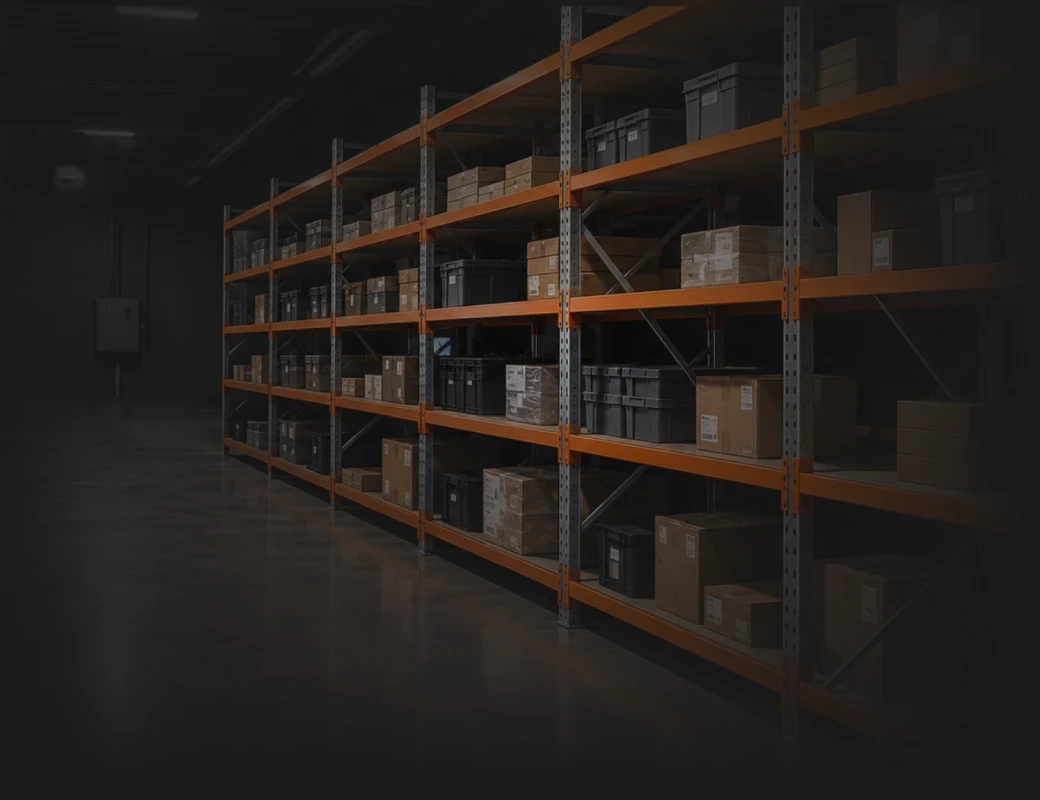
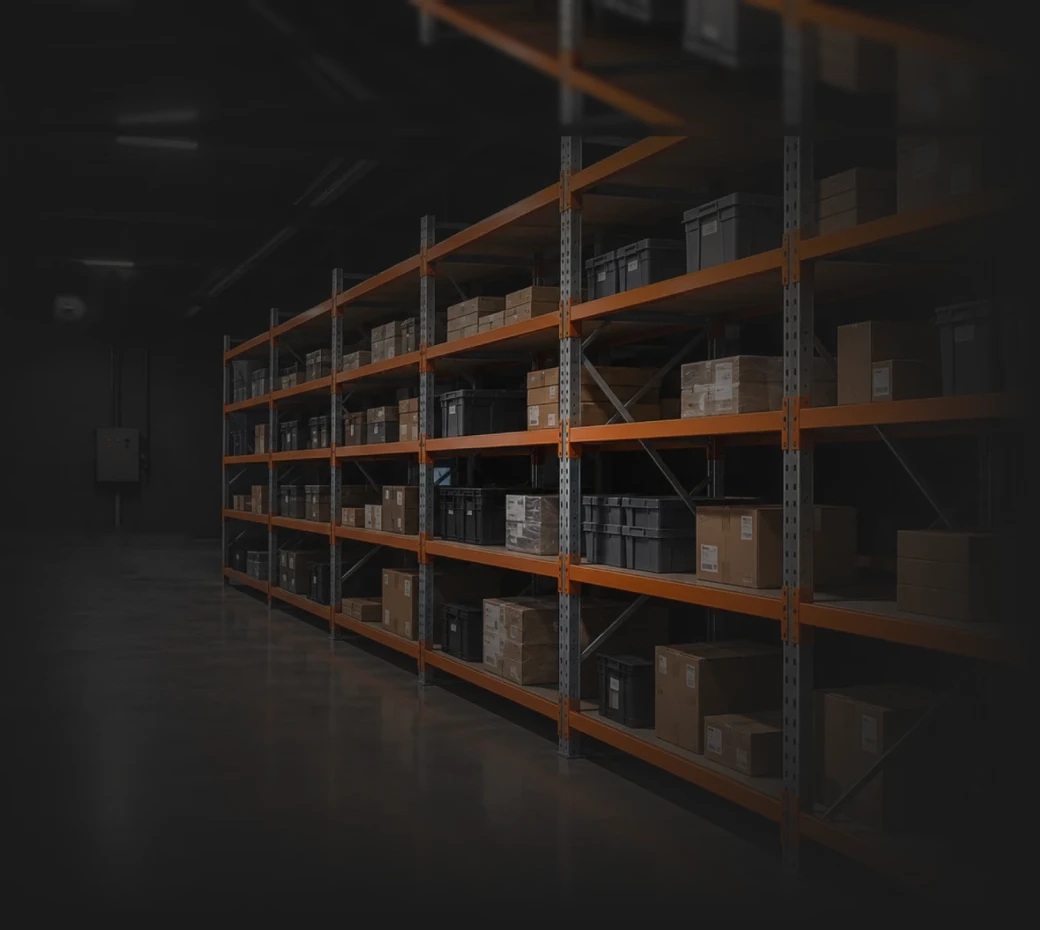
Шапка полупрозрачнее, фон hero продолжается под шапкой

diff --git a/srednegruzovye-stellazhi.html b/srednegruzovye-stellazhi.html
@@ -9,10 +9,10 @@
   <link rel="preconnect" href="https://fonts.googleapis.com">
   <link rel="preconnect" href="https://fonts.gstatic.com" crossorigin>
   <link href="https://fonts.googleapis.com/css2?family=Golos+Text:wght@400;500;600;700&display=swap" rel="stylesheet">
-  <link rel="stylesheet" href="css/style.css?v=61">
+  <link rel="stylesheet" href="css/style.css?v=62">
   <link rel="stylesheet" href="css/mining.css?v=3">
   <link rel="stylesheet" href="css/catalog.css?v=18">
-  <link rel="stylesheet" href="css/racks.css?v=23">
+  <link rel="stylesheet" href="css/racks.css?v=24">
 </head>
 <body class="page-racks">
 
@@ -117,7 +117,7 @@
 
 <main>
 
-  <section class="m-hero rk-hero" style="--rk-hero:url(../img/racks/s-hero.webp?v=2);--rk-w:743px;--rk-h:572px;--rk-ml:-285px;--rk-top:93px">
+  <section class="m-hero rk-hero" style="--rk-hero:url(../img/racks/s-hero.webp?v=3);--rk-w:743px;--rk-h:665px;--rk-ml:-285px;--rk-top:0px">
     <div class="container m-hero__inner">
       <div class="m-hero__main">
         <p class="pill"><img class="pill__icon" src="img/icons/logo-mark.svg" width="16" height="18" alt="">Официальный дилер стеллажных систем</p>

diff --git a/mezoninnye-stellazhi.html b/mezoninnye-stellazhi.html
@@ -9,10 +9,10 @@
   <link rel="preconnect" href="https://fonts.googleapis.com">
   <link rel="preconnect" href="https://fonts.gstatic.com" crossorigin>
   <link href="https://fonts.googleapis.com/css2?family=Golos+Text:wght@400;500;600;700&display=swap" rel="stylesheet">
-  <link rel="stylesheet" href="css/style.css?v=61">
+  <link rel="stylesheet" href="css/style.css?v=62">
   <link rel="stylesheet" href="css/mining.css?v=3">
   <link rel="stylesheet" href="css/catalog.css?v=18">
-  <link rel="stylesheet" href="css/racks.css?v=23">
+  <link rel="stylesheet" href="css/racks.css?v=24">
 </head>
 <body class="page-racks">
 
@@ -117,7 +117,7 @@
 
 <main>
 
-  <section class="m-hero rk-hero" style="--rk-hero:url(../img/racks/m-hero.webp?v=2);--rk-w:510px;--rk-h:541px">
+  <section class="m-hero rk-hero" style="--rk-hero:url(../img/racks/m-hero.webp?v=3);--rk-w:510px;--rk-h:541px">
     <div class="container m-hero__inner">
       <div class="m-hero__main">
         <p class="pill"><img class="pill__icon" src="img/icons/logo-mark.svg" width="16" height="18" alt="">Официальный дилер стеллажных систем</p>

diff --git a/palletnye-frontalnye-stellazhi.html b/palletnye-frontalnye-stellazhi.html
@@ -9,10 +9,10 @@
   <link rel="preconnect" href="https://fonts.googleapis.com">
   <link rel="preconnect" href="https://fonts.gstatic.com" crossorigin>
   <link href="https://fonts.googleapis.com/css2?family=Golos+Text:wght@400;500;600;700&display=swap" rel="stylesheet">
-  <link rel="stylesheet" href="css/style.css?v=61">
+  <link rel="stylesheet" href="css/style.css?v=62">
   <link rel="stylesheet" href="css/mining.css?v=3">
   <link rel="stylesheet" href="css/catalog.css?v=18">
-  <link rel="stylesheet" href="css/racks.css?v=23">
+  <link rel="stylesheet" href="css/racks.css?v=24">
 </head>
 <body class="page-racks">
 
@@ -117,7 +117,7 @@
 
 <main>
 
-  <section class="m-hero rk-hero" style="--rk-hero:url(../img/racks/p-hero.webp?v=2);--rk-w:519px;--rk-h:536px">
+  <section class="m-hero rk-hero" style="--rk-hero:url(../img/racks/p-hero.webp?v=3);--rk-w:519px;--rk-h:536px">
     <div class="container m-hero__inner">
       <div class="m-hero__main">
         <p class="pill"><img class="pill__icon" src="img/icons/logo-mark.svg" width="16" height="18" alt="">Официальный дилер стеллажных систем</p>

diff --git a/css/style.css b/css/style.css
@@ -146,7 +146,7 @@ button { cursor: pointer; }
 /* Размытие на псевдоэлементе: backdrop-filter на самой шапке ломает position: fixed у мобильного меню */
 .header::before {
   content: ''; position: absolute; inset: 0; z-index: -1;
-  background: rgba(26, 26, 26, .92); -webkit-backdrop-filter: blur(10px); backdrop-filter: blur(10px);
+  background: rgba(26, 26, 26, .78); -webkit-backdrop-filter: blur(10px); backdrop-filter: blur(10px);
 }
 .header__inner { display: flex; align-items: center; gap: 78px; height: 100%; }
 .nav { margin-left: auto; }

diff --git a/warehouse.html b/warehouse.html
@@ -9,7 +9,7 @@
   <link rel="preconnect" href="https://fonts.googleapis.com">
   <link rel="preconnect" href="https://fonts.gstatic.com" crossorigin>
   <link href="https://fonts.googleapis.com/css2?family=Golos+Text:wght@400;500;600;700&display=swap" rel="stylesheet">
-  <link rel="stylesheet" href="css/style.css?v=61">
+  <link rel="stylesheet" href="css/style.css?v=62">
   <link rel="stylesheet" href="css/mining.css?v=3">
   <link rel="stylesheet" href="css/catalog.css?v=18">
   <link rel="stylesheet" href="css/warehouse.css?v=3">

diff --git a/catalog.html b/catalog.html
@@ -9,7 +9,7 @@
   <link rel="preconnect" href="https://fonts.googleapis.com">
   <link rel="preconnect" href="https://fonts.gstatic.com" crossorigin>
   <link href="https://fonts.googleapis.com/css2?family=Golos+Text:wght@400;500;600;700&display=swap" rel="stylesheet">
-  <link rel="stylesheet" href="css/style.css?v=61">
+  <link rel="stylesheet" href="css/style.css?v=62">
   <link rel="stylesheet" href="css/catalog.css?v=18">
 </head>
 <body class="page-catalog">

diff --git a/mining.html b/mining.html
@@ -9,7 +9,7 @@
   <link rel="preconnect" href="https://fonts.googleapis.com">
   <link rel="preconnect" href="https://fonts.gstatic.com" crossorigin>
   <link href="https://fonts.googleapis.com/css2?family=Golos+Text:wght@400;500;600;700&display=swap" rel="stylesheet">
-  <link rel="stylesheet" href="css/style.css?v=61">
+  <link rel="stylesheet" href="css/style.css?v=62">
   <link rel="stylesheet" href="css/mining.css?v=3">
 </head>
 <body class="page-mining">

diff --git a/rack3d.html b/rack3d.html
@@ -9,7 +9,7 @@
   <link rel="preconnect" href="https://fonts.googleapis.com">
   <link rel="preconnect" href="https://fonts.gstatic.com" crossorigin>
   <link href="https://fonts.googleapis.com/css2?family=Golos+Text:wght@400;500;600;700&display=swap" rel="stylesheet">
-  <link rel="stylesheet" href="css/style.css?v=61">
+  <link rel="stylesheet" href="css/style.css?v=62">
   <link rel="stylesheet" href="css/rack3d.css?v=3">
 </head>
 <body>

diff --git a/index.html b/index.html
@@ -9,7 +9,7 @@
   <link rel="preconnect" href="https://fonts.googleapis.com">
   <link rel="preconnect" href="https://fonts.gstatic.com" crossorigin>
   <link href="https://fonts.googleapis.com/css2?family=Golos+Text:wght@400;500;600;700&display=swap" rel="stylesheet">
-  <link rel="stylesheet" href="css/style.css?v=61">
+  <link rel="stylesheet" href="css/style.css?v=62">
 </head>
 <body>
 
